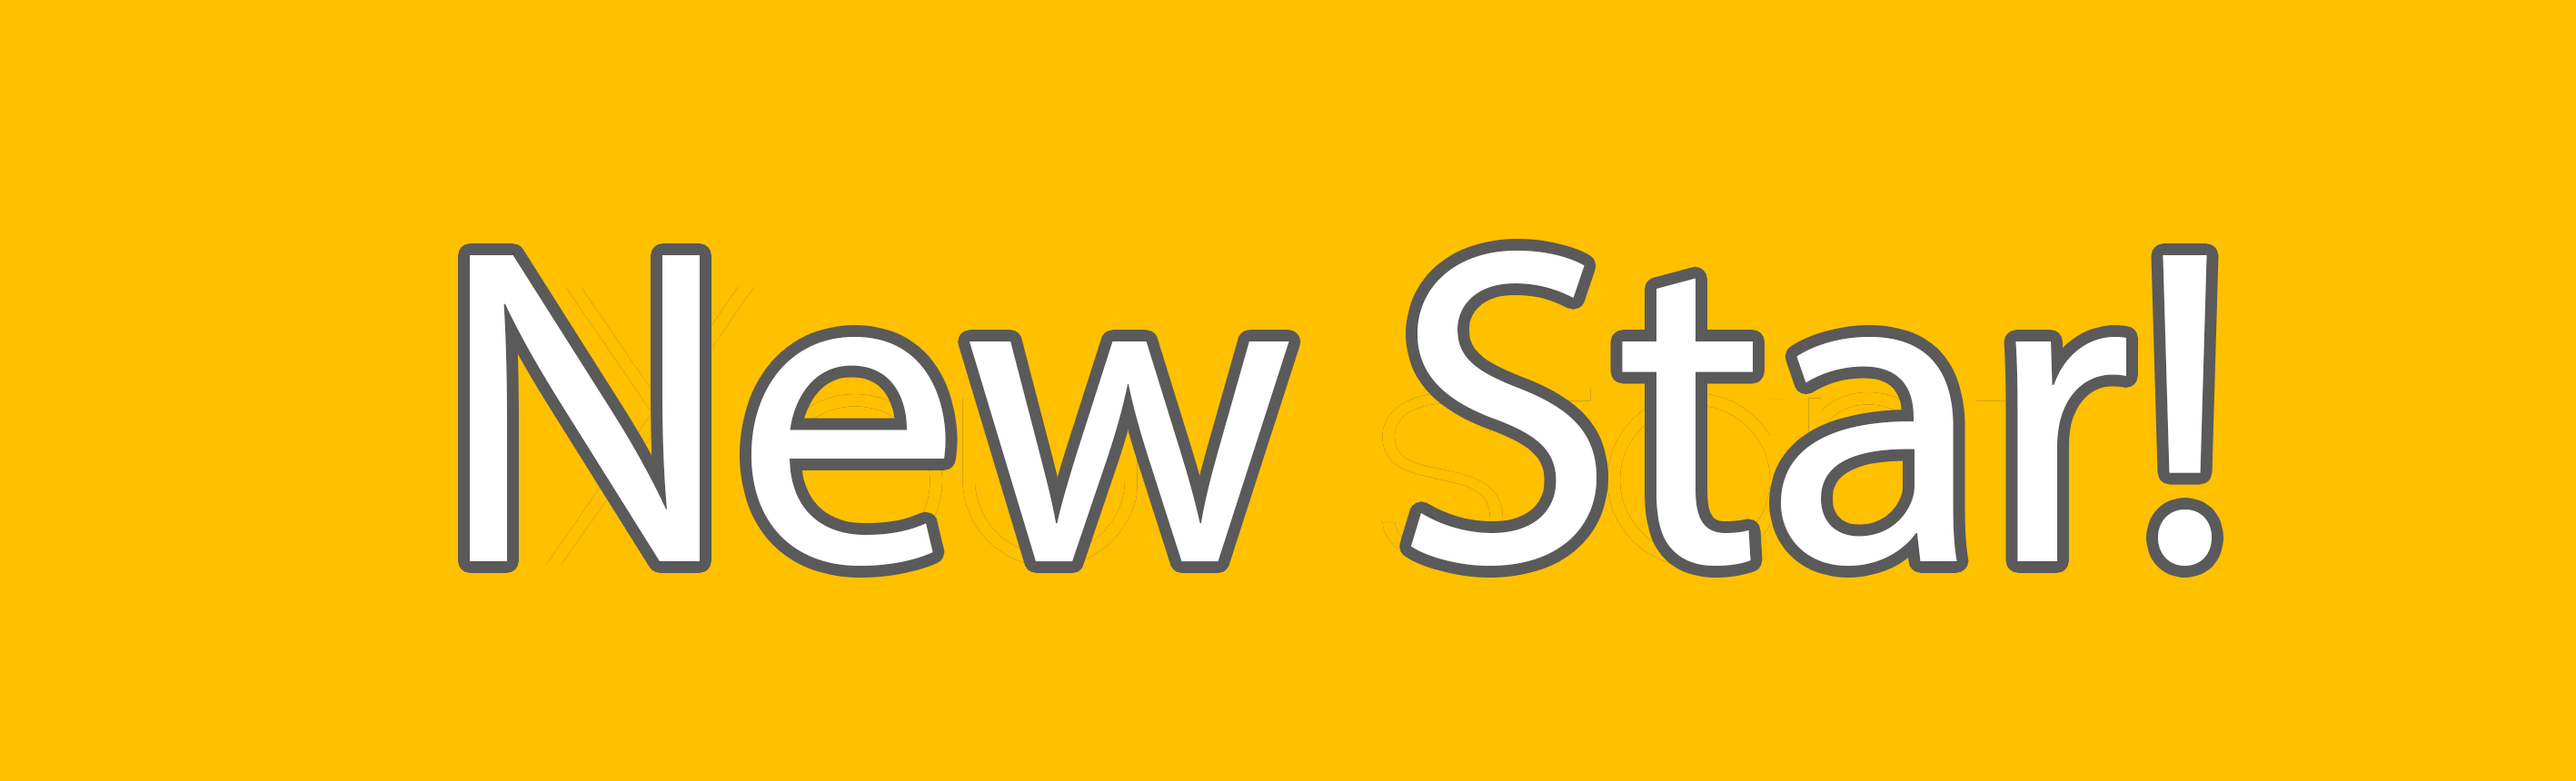
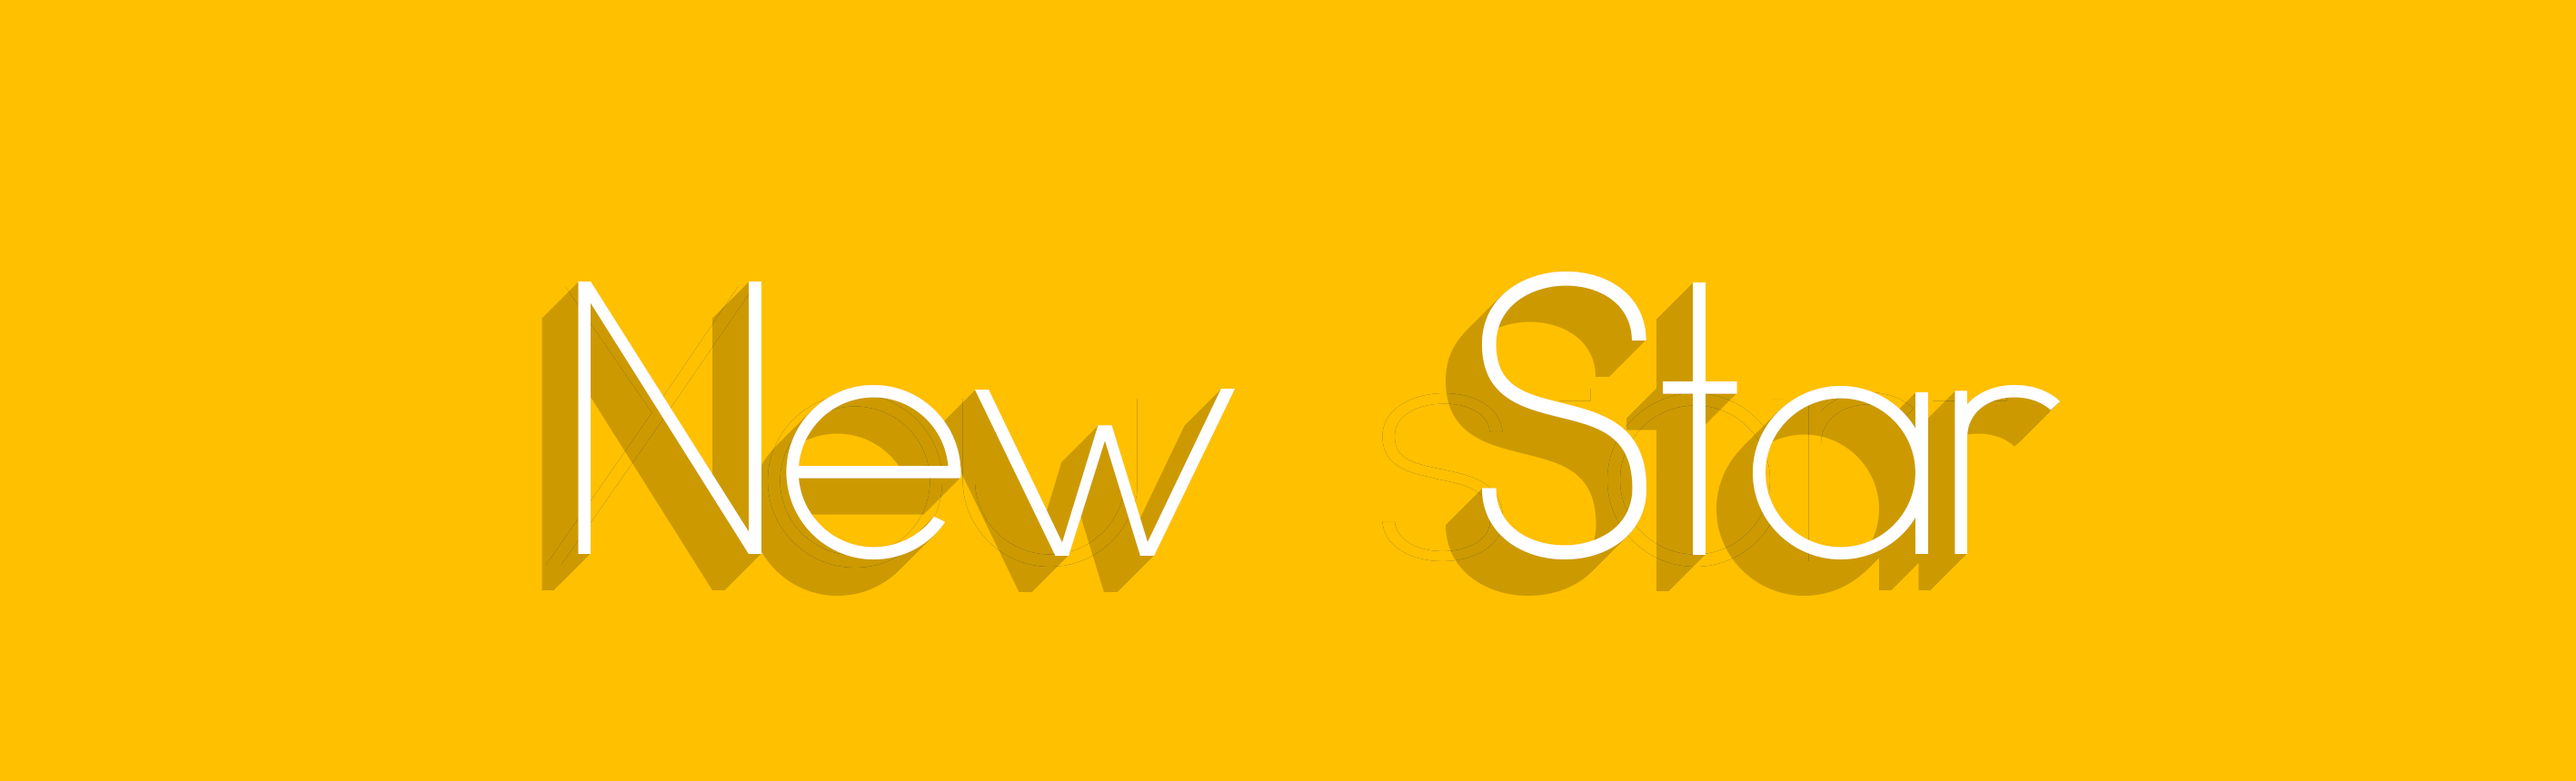
Graphics improvements: - New font for main menu; - Scores now before rules; - New font in Scores section; - Improved code in MainMenu for graphic layout portability; - MenuIn animation to be fixed (!); - New "NewStar" png image; - New "star" png image for Scores section;

Changed region(s): [[0.1552, 0.3023, 0.8691, 0.786]]

diff --git a/FlipCard-WP/MainPage.xaml b/FlipCard-WP/MainPage.xaml
@@ -13,45 +13,45 @@
     Foreground="{StaticResource PhoneForegroundBrush}"
     SupportedOrientations="Portrait" Orientation="Portrait"
     shell:SystemTray.IsVisible="True" Background="Black">
-	<phone:PhoneApplicationPage.Resources>
-		<Storyboard x:Name="ScoreBar">
-			<DoubleAnimation Duration="2" To="50" Storyboard.TargetProperty="(RangeBase.Value)" Storyboard.TargetName="progressBar" d:IsOptimized="True"/>
-			</Storyboard>
-		<Storyboard x:Name="ProgressBarIn">
-			<DoubleAnimationUsingKeyFrames Storyboard.TargetProperty="(UIElement.RenderTransform).(CompositeTransform.TranslateX)" Storyboard.TargetName="progressBar">
-				<EasingDoubleKeyFrame KeyTime="0" Value="-500"/>
-				<EasingDoubleKeyFrame KeyTime="0:0:1" Value="0">
-					<EasingDoubleKeyFrame.EasingFunction>
-						<CircleEase EasingMode="EaseInOut"/>
-					</EasingDoubleKeyFrame.EasingFunction>
-				</EasingDoubleKeyFrame>
-			</DoubleAnimationUsingKeyFrames>
-		</Storyboard>
-		<Storyboard x:Name="ProgressBarOut">
-			<DoubleAnimationUsingKeyFrames Storyboard.TargetProperty="(UIElement.RenderTransform).(CompositeTransform.TranslateY)" Storyboard.TargetName="progressBar">
-				<EasingDoubleKeyFrame KeyTime="0" Value="0"/>
-				<EasingDoubleKeyFrame KeyTime="0:0:1" Value="40"/>
-			</DoubleAnimationUsingKeyFrames>
-			<DoubleAnimationUsingKeyFrames Storyboard.TargetProperty="(UIElement.Opacity)" Storyboard.TargetName="progressBar">
-				<EasingDoubleKeyFrame KeyTime="0" Value="1"/>
-				<EasingDoubleKeyFrame KeyTime="0:0:1" Value="0"/>
-			</DoubleAnimationUsingKeyFrames>
-		</Storyboard>
-		<Storyboard x:Name="FadeInMenu">
-			<DoubleAnimationUsingKeyFrames Storyboard.TargetProperty="(UIElement.Opacity)" Storyboard.TargetName="TitlePanel">
-				<EasingDoubleKeyFrame KeyTime="0" Value="0"/>
-				<EasingDoubleKeyFrame KeyTime="0:0:0.6" Value="1">
-					<EasingDoubleKeyFrame.EasingFunction>
-						<CircleEase EasingMode="EaseInOut"/>
-					</EasingDoubleKeyFrame.EasingFunction>
-				</EasingDoubleKeyFrame>
-			</DoubleAnimationUsingKeyFrames>
-			<DoubleAnimationUsingKeyFrames Storyboard.TargetProperty="(UIElement.Opacity)" Storyboard.TargetName="ContentPanel">
-				<EasingDoubleKeyFrame KeyTime="0" Value="0"/>
-				<EasingDoubleKeyFrame KeyTime="0:0:0.6" Value="1"/>
-			</DoubleAnimationUsingKeyFrames>
-		</Storyboard>
-	</phone:PhoneApplicationPage.Resources>
+    <phone:PhoneApplicationPage.Resources>
+        <Storyboard x:Name="ScoreBar">
+            <DoubleAnimation Duration="2.0:0:0" To="50" Storyboard.TargetProperty="(RangeBase.Value)" Storyboard.TargetName="progressBar" d:IsOptimized="True"/>
+        </Storyboard>
+        <Storyboard x:Name="ProgressBarIn">
+            <DoubleAnimationUsingKeyFrames Storyboard.TargetProperty="(UIElement.RenderTransform).(CompositeTransform.TranslateX)" Storyboard.TargetName="progressBar">
+                <EasingDoubleKeyFrame KeyTime="0" Value="-500"/>
+                <EasingDoubleKeyFrame KeyTime="0:0:1" Value="0">
+                    <EasingDoubleKeyFrame.EasingFunction>
+                        <CircleEase EasingMode="EaseInOut"/>
+                    </EasingDoubleKeyFrame.EasingFunction>
+                </EasingDoubleKeyFrame>
+            </DoubleAnimationUsingKeyFrames>
+        </Storyboard>
+        <Storyboard x:Name="ProgressBarOut">
+            <DoubleAnimationUsingKeyFrames Storyboard.TargetProperty="(UIElement.RenderTransform).(CompositeTransform.TranslateY)" Storyboard.TargetName="progressBar">
+                <EasingDoubleKeyFrame KeyTime="0" Value="0"/>
+                <EasingDoubleKeyFrame KeyTime="0:0:0.5" Value="40"/>
+            </DoubleAnimationUsingKeyFrames>
+            <DoubleAnimationUsingKeyFrames Storyboard.TargetProperty="(UIElement.Opacity)" Storyboard.TargetName="progressBar">
+                <EasingDoubleKeyFrame KeyTime="0" Value="1"/>
+                <EasingDoubleKeyFrame KeyTime="0:0:0.5" Value="0"/>
+            </DoubleAnimationUsingKeyFrames>
+        </Storyboard>
+        <Storyboard x:Name="FadeInMenu">
+            <DoubleAnimationUsingKeyFrames Storyboard.TargetProperty="(UIElement.Opacity)" Storyboard.TargetName="TitlePanel">
+                <EasingDoubleKeyFrame KeyTime="0" Value="0"/>
+                <EasingDoubleKeyFrame KeyTime="0:0:0.6" Value="1">
+                    <EasingDoubleKeyFrame.EasingFunction>
+                        <CircleEase EasingMode="EaseInOut"/>
+                    </EasingDoubleKeyFrame.EasingFunction>
+                </EasingDoubleKeyFrame>
+            </DoubleAnimationUsingKeyFrames>
+            <DoubleAnimationUsingKeyFrames Storyboard.TargetProperty="(UIElement.Opacity)" Storyboard.TargetName="ContentPanel">
+                <EasingDoubleKeyFrame KeyTime="0" Value="0"/>
+                <EasingDoubleKeyFrame KeyTime="0:0:0.6" Value="1"/>
+            </DoubleAnimationUsingKeyFrames>
+        </Storyboard>
+    </phone:PhoneApplicationPage.Resources>
 
 
     <!--LayoutRoot is the root grid where all page content is placed-->
@@ -172,8 +172,8 @@
                     </EasingDoubleKeyFrame>
                 </DoubleAnimationUsingKeyFrames>
             </Storyboard>
-            
-            
+
+
             <Storyboard x:Name="PlayPressedAnimation" Completed="PlayPressedAnimation_Completed">
                 <DoubleAnimationUsingKeyFrames Storyboard.TargetProperty="(UIElement.Opacity)" Storyboard.TargetName="image">
                     <EasingDoubleKeyFrame KeyTime="0" Value="1"/>
@@ -398,9 +398,9 @@
                     </EasingDoubleKeyFrame>
                 </DoubleAnimationUsingKeyFrames>
             </Storyboard>
-            
-            
-            
+
+
+
             <Storyboard x:Name="StatsPressedAnimation" Completed="StatsPressedAnimation_Completed">
                 <DoubleAnimationUsingKeyFrames Storyboard.TargetProperty="(UIElement.Opacity)" Storyboard.TargetName="image">
                     <EasingDoubleKeyFrame KeyTime="0" Value="1"/>
@@ -582,12 +582,12 @@
                 </DoubleAnimationUsingKeyFrames>
             </Storyboard>
         </Grid.Resources>
-    	<Grid.Background>
-    		<LinearGradientBrush EndPoint="0.5,1" StartPoint="0.5,0">
-    			<GradientStop Color="Black" Offset="0"/>
-    			<GradientStop Color="#FF232323" Offset="1"/>
-    		</LinearGradientBrush>
-    	</Grid.Background>
+        <Grid.Background>
+            <LinearGradientBrush EndPoint="0.5,1" StartPoint="0.5,0">
+                <GradientStop Color="Black" Offset="0"/>
+                <GradientStop Color="#FF232323" Offset="1"/>
+            </LinearGradientBrush>
+        </Grid.Background>
         <!-- LOCALIZATION NOTE:
             To localize the displayed strings copy their values to appropriately named
             keys in the app's neutral language resource file (AppResources.resx) then
@@ -617,47 +617,48 @@
 
         <!--TitlePanel contains the name of the application and page title-->
         <StackPanel x:Name="TitlePanel" Grid.Row="0" Margin="6,45,6,0" HorizontalAlignment="Center" VerticalAlignment="Center">
-            <Image x:Name="image" Source="/Assets/Misc/TitleFlipCard.png" Margin="0,0,10,0" RenderTransformOrigin="0.5,0.5">
+            <Image x:Name="image" Source="/Assets/Misc/TitleFlipCard.png" Margin="0,0,0,0" RenderTransformOrigin="0.5,0.5" HorizontalAlignment="Center" Width="Auto">
                 <Image.RenderTransform>
                     <CompositeTransform/>
                 </Image.RenderTransform>
             </Image>
-            <TextBlock x:Name="textBlock" Margin="9,-7,0,0" Style="{StaticResource PhoneTextTitle1Style}" HorizontalAlignment="Center" Foreground="#FF66B9C1" FontSize="24" >
+            <TextBlock x:Name="textBlock" Margin="0,-7,0,0" Style="{StaticResource PhoneTextTitle1Style}" HorizontalAlignment="Center" Foreground="#FF66B9C1" FontSize="24" >
             	<Run Text="@FlipCardApp"/>
             </TextBlock>
 
         </StackPanel>
 
         <!--ContentPanel - place additional content here-->
-        <Grid x:Name="ContentPanel" Grid.Row="1" HorizontalAlignment="Center" VerticalAlignment="Center">
+        <Grid x:Name="ContentPanel" Grid.Row="1" HorizontalAlignment="Center" VerticalAlignment="Center" Margin="0,0,0,0" Width="480" Height="468">
             <Grid.ColumnDefinitions>
-                <ColumnDefinition Width="500"/>
-                <ColumnDefinition Width="54.164"/>
+                <ColumnDefinition Width="100*"/>
             </Grid.ColumnDefinitions>
             <Grid.RowDefinitions>
+                <RowDefinition Height="1*"/>
                 <RowDefinition Height="auto"/>
                 <RowDefinition Height="auto"/>
                 <RowDefinition Height="auto"/>
                 <RowDefinition Height="auto"/>
+                <RowDefinition Height="1*"/>
             </Grid.RowDefinitions>
 
-            <Button Grid.Row="0" Grid.Column="0" Content="{Binding Path=LocalizedResources.Button_Play, Source={StaticResource LocalizedStrings}}" x:Name="btn_play" Click="Play_Tap" Background="#FF9b0b"  Height="80" RenderTransformOrigin="0.5,0.5" Grid.ColumnSpan="2" Hold="setMyBest" BorderBrush="{x:Null}" BorderThickness="3,0" FontSize="26.667" FontFamily="Segoe WP SemiLight" FontWeight="Bold" Foreground="White" Padding="10,0" >
+            <Button Grid.Row="1" Content="Play" x:Name="btn_play" Click="Play_Tap"  Height="100" RenderTransformOrigin="0.5,-3" Hold="setMyBest" BorderBrush="#FFD6D6D6" BorderThickness="2" FontSize="29.333" FontFamily="/FlipCard-WP;component/Fonts/Fonts.zip#Alpaca Scarlett Demo" Padding="10,0" Margin="0" CharacterSpacing="50" Foreground="White" Background="#FFFFB900" >
                 <Button.RenderTransform>
                     <CompositeTransform/>
                 </Button.RenderTransform>
 
             </Button>
-            <Button Grid.Row="1" Grid.Column="0" x:Name="btn_rules" Background="#ff5d0b" Tap="Rules_Tap" Hold="button_Hold" Height="80" Content="{Binding Path=LocalizedResources.Button_Rules, Source={StaticResource LocalizedStrings}}" RenderTransformOrigin="0.5,0.5" Grid.ColumnSpan="2" BorderBrush="{x:Null}" BorderThickness="3,0" FontFamily="Segoe WP SemiLight" FontSize="26.667" FontWeight="Bold">
+            <Button Grid.Row="3" x:Name="btn_rules" Background="#FF895622" Tap="Rules_Tap" Hold="button_Hold" Height="100" Content="{Binding Path=LocalizedResources.Button_Rules, Source={StaticResource LocalizedStrings}}" RenderTransformOrigin="0.5,-3" BorderBrush="White" BorderThickness="2" FontFamily="/FlipCard-WP;component/Fonts/Fonts.zip#Alpaca Scarlett Demo" FontSize="29.333" Margin="0,-16,0,0" CharacterSpacing="50" Foreground="White">
                 <Button.RenderTransform>
                     <CompositeTransform/>
                 </Button.RenderTransform>
             </Button>
-            <Button Grid.Row="2" Grid.Column="0" x:Name="btn_stats" Background="#663300" Height="80" Tap="btn_stats_Tap" Hold="button_Hold" RenderTransformOrigin="0.5,0.5" Content="{Binding Path=LocalizedResources.Button_Stats, Source={StaticResource LocalizedStrings}}" Grid.ColumnSpan="2" BorderBrush="{x:Null}" BorderThickness="3,0" FontFamily="Segoe WP SemiLight" FontSize="26.667" FontWeight="Bold">
+            <Button Grid.Row="2" x:Name="btn_stats" Background="#FFDE7219" Height="100" Tap="btn_stats_Tap" Hold="button_Hold" RenderTransformOrigin="0.5,-3" Content="Scores" BorderBrush="White" BorderThickness="2" FontFamily="/FlipCard-WP;component/Fonts/Fonts.zip#Alpaca Scarlett Demo" FontSize="29.333" Margin="0,-16,0,0" CharacterSpacing="50" Foreground="White">
                 <Button.RenderTransform>
                     <CompositeTransform/>
                 </Button.RenderTransform>
             </Button>
-            <Button Grid.Row="3" Grid.Column="0" x:Name="btn_about" Background="#5C5240" Tap="aboutUs_Tap" Hold="button_Hold" RenderTransformOrigin="0.5,0.5" Content="{Binding Path=LocalizedResources.Button_About, Source={StaticResource LocalizedStrings}}" Grid.ColumnSpan="2" BorderBrush="{x:Null}" BorderThickness="3,0" FontFamily="Segoe WP SemiLight" FontSize="26.667" Height="80" FontWeight="Bold">
+            <Button Grid.Row="4" x:Name="btn_about" Background="#5C5240" Tap="aboutUs_Tap" Hold="button_Hold" RenderTransformOrigin="0.5,-3" Content="{Binding Path=LocalizedResources.Button_About, Source={StaticResource LocalizedStrings}}" BorderBrush="White" BorderThickness="2" FontFamily="/FlipCard-WP;component/Fonts/Fonts.zip#Alpaca Scarlett Demo" FontSize="29.333" Height="100" Margin="0,-16,0,0" CharacterSpacing="50" Foreground="White">
                 <Button.RenderTransform>
                     <CompositeTransform/>
                 </Button.RenderTransform>
@@ -666,10 +667,10 @@
 
         </Grid>
         <ProgressBar x:Name="progressBar" HorizontalAlignment="Left" Height="30" Margin="3,483,0,0" Grid.Row="1" VerticalAlignment="Top" Width="473" RenderTransformOrigin="0.5,0.5">
-            
+
             <ProgressBar.RenderTransform>
-        		<CompositeTransform/>
-        	</ProgressBar.RenderTransform>
+                <CompositeTransform/>
+            </ProgressBar.RenderTransform>
         </ProgressBar>
 
     </Grid>

diff --git a/FlipCard-WP/Statistics.xaml b/FlipCard-WP/Statistics.xaml
@@ -66,7 +66,7 @@
 
         <!--TitlePanel contains the name of the application and page title-->
         <StackPanel Grid.Row="0" Margin="12,17,0,28">
-            <TextBlock x:Name="textBlock" Foreground="White" TextAlignment="Center" Text="{Binding Path=LocalizedResources.Stats_Title, Source={StaticResource LocalizedStrings}}" FontSize="50" Margin="10,10,10,10">
+            <TextBlock x:Name="textBlock" Foreground="White" TextAlignment="Center" Text="{Binding Path=LocalizedResources.Stats_Title, Source={StaticResource LocalizedStrings}}" FontSize="50" Margin="10,10,10,10" FontFamily="/FlipCard-WP;component/Fonts/Fonts.zip#Alpaca Scarlett Demo">
             	<TextBlock.Projection>
             		<PlaneProjection/>
             	</TextBlock.Projection>
@@ -85,10 +85,10 @@
                 <RowDefinition Height="auto"/>
                 <RowDefinition Height="auto"/>
             </Grid.RowDefinitions>
-            <TextBlock x:Name="stats_block_W" Foreground="White" Grid.Row="0" TextWrapping="Wrap" FontSize="25"></TextBlock>
-            <TextBlock x:Name="stats_block_L" Foreground="White" Grid.Row="1" TextWrapping="Wrap" FontSize="25"></TextBlock>
-            <TextBlock x:Name="stats_block_T" Foreground="White" Grid.Row="2" TextWrapping="Wrap" FontSize="25"></TextBlock>
-            <Grid Grid.Row="3">
+            <TextBlock x:Name="stats_block_W" Foreground="White" Grid.Row="0" TextWrapping="Wrap" FontSize="25" HorizontalAlignment="Center"></TextBlock>
+            <TextBlock x:Name="stats_block_L" Foreground="White" Grid.Row="1" TextWrapping="Wrap" FontSize="25" HorizontalAlignment="Center"></TextBlock>
+            <TextBlock x:Name="stats_block_T" Foreground="White" Grid.Row="2" TextWrapping="Wrap" FontSize="25" HorizontalAlignment="Center"></TextBlock>
+            <Grid Grid.Row="3" HorizontalAlignment="Center">
                 <Grid.RowDefinitions>
                     <RowDefinition Height="70"></RowDefinition>
                 </Grid.RowDefinitions>
@@ -99,14 +99,14 @@
                     <ColumnDefinition Width="auto"></ColumnDefinition>
                     <ColumnDefinition Width="auto"></ColumnDefinition>
                 </Grid.ColumnDefinitions>
-                <Image x:Name="star1" Grid.Row="0" Grid.Column="0" Source="/Images/Misc/Star.png"/>
-                <Image x:Name="star2" Grid.Row="0" Grid.Column="1" Source="/Images/Misc/Star.png"/>
-                <Image x:Name="star3" Grid.Row="0" Grid.Column="2" Source="/Images/Misc/Star.png"/>
-                <Image x:Name="star4" Grid.Row="0" Grid.Column="3" Source="/Images/Misc/Star.png"/>
-                <Image x:Name="star5" Grid.Row="0" Grid.Column="4" Source="/Images/Misc/Star.png"/>
+                <Image x:Name="star1" Grid.Row="0" Grid.Column="0" Source="/Images/Misc/Star.png" Margin="5,0"/>
+                <Image x:Name="star2" Grid.Row="0" Grid.Column="1" Source="/Images/Misc/Star.png" Margin="5,0"/>
+                <Image x:Name="star3" Grid.Row="0" Grid.Column="2" Source="/Images/Misc/Star.png" Margin="5,0"/>
+                <Image x:Name="star4" Grid.Row="0" Grid.Column="3" Source="/Images/Misc/Star.png" Margin="5,0"/>
+                <Image x:Name="star5" Grid.Row="0" Grid.Column="4" Source="/Images/Misc/Star.png" Margin="5,0"/>
            
            </Grid>
-            <TextBlock x:Name="stats_block_B" Foreground="White" Grid.Row="4" TextWrapping="Wrap" FontSize="25" Margin="0,34,0,-34"></TextBlock>
+            <TextBlock x:Name="stats_block_B" Foreground="White" Grid.Row="4" TextWrapping="Wrap" FontSize="33.333" Margin="0,34,0,-34" HorizontalAlignment="Center"></TextBlock>
 
         </Grid>
     </Grid>

diff --git a/FlipCard-WP/Rules.xaml b/FlipCard-WP/Rules.xaml
@@ -74,7 +74,7 @@
 
         <!--TitlePanel contains the name of the application and page title-->
         <StackPanel Grid.Row="0" Margin="12,17,0,28">
-            <TextBlock x:Name="textBlock" Text="{Binding Path=LocalizedResources.Button_Rules, Source={StaticResource LocalizedStrings}}" FontSize="50" Margin="10,10,10,10" RenderTransformOrigin="0.5,0.5">
+            <TextBlock x:Name="textBlock" Text="{Binding Path=LocalizedResources.Button_Rules, Source={StaticResource LocalizedStrings}}" FontSize="50" Margin="10,10,10,10" RenderTransformOrigin="0.5,0.5" FontFamily="/FlipCard-WP;component/Fonts/Fonts.zip#Alpaca Scarlett Demo">
             	<TextBlock.RenderTransform>
             		<CompositeTransform/>
             	</TextBlock.RenderTransform>
